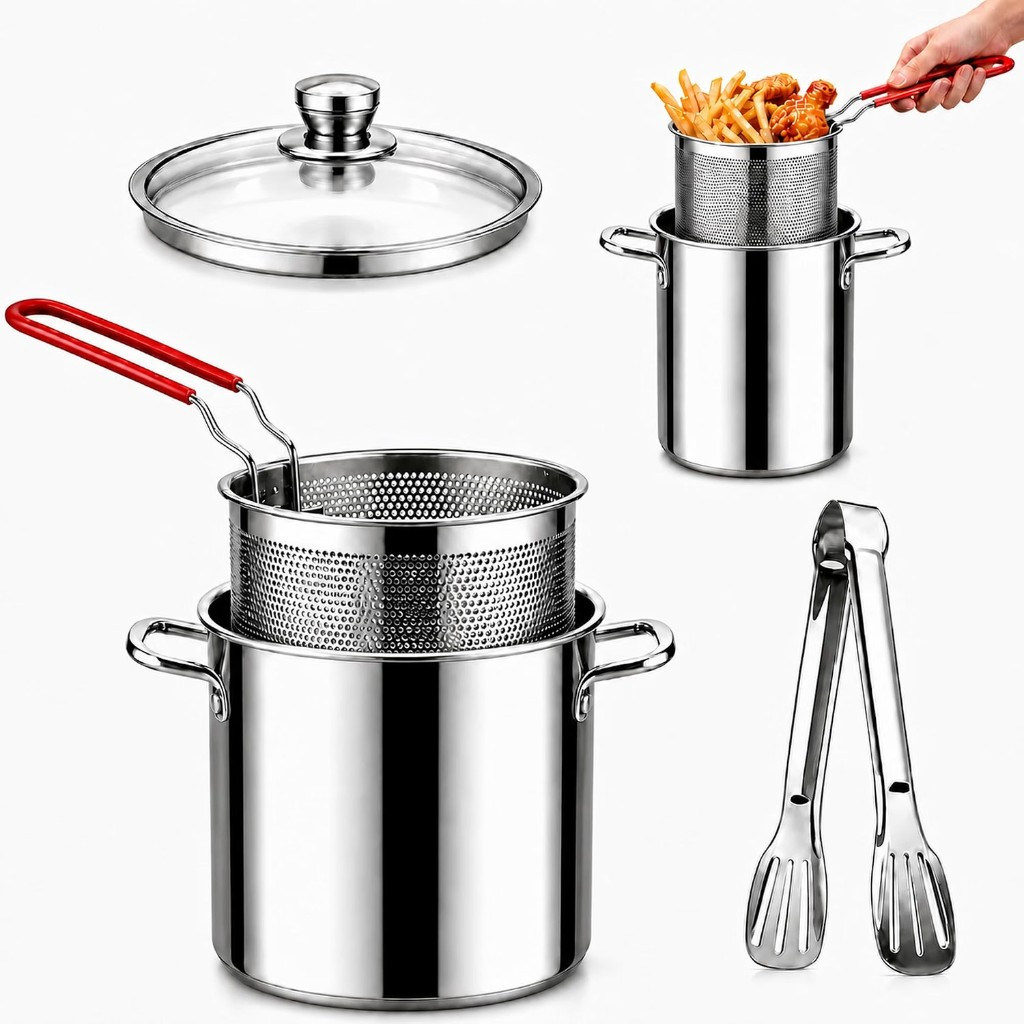
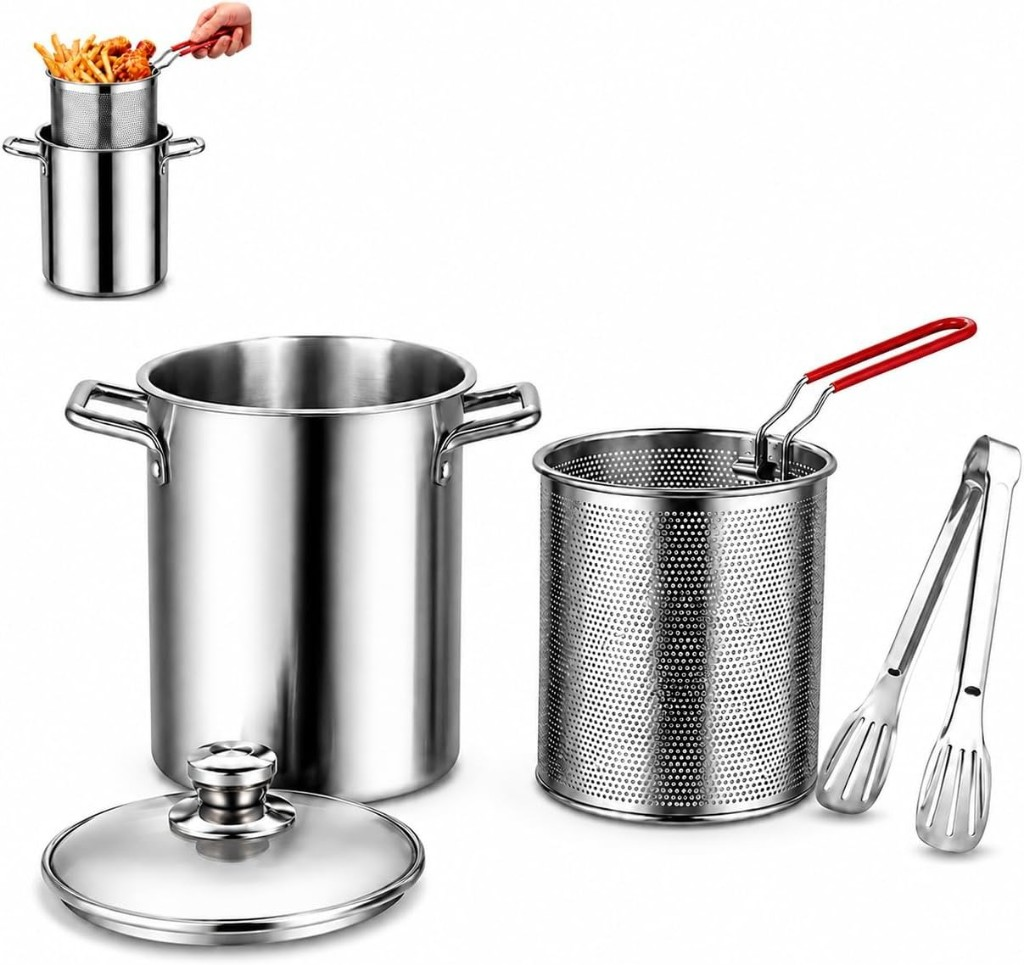
Add five-image hero gallery to steel fryer page.
Include product, steel 304, lift-and-drain, portions, and dimensions slides with thumbnails.

diff --git a/steel-fryer-panama.html b/steel-fryer-panama.html
@@ -5,15 +5,15 @@
   <meta name="viewport" content="width=device-width, initial-scale=1.0">
   <title>Olla Freidora Multifuncional Acero Inoxidable 304 | CompraConfio Panamá — Pago Contra Entrega</title>
   <meta name="description" content="Olla freidora multifuncional de acero inoxidable 304 con canasta escurridora. Fríe con menos aceite y menos desorden. Envío gratis y pago contra entrega en Panamá.">
-  <link rel="preload" as="image" href="/images/steel-fryer/hero-product.png?v=20260920a" fetchpriority="high">
+  <link rel="preload" as="image" href="/images/steel-fryer/hero-product.png?v=20260920b" fetchpriority="high">
   <link rel="preload" as="style" href="/css/product.css?v=20260811a">
-  <link rel="preload" as="style" href="/css/steel-fryer.css?v=20260920a">
+  <link rel="preload" as="style" href="/css/steel-fryer.css?v=20260920b">
   <link rel="preconnect" href="https://fonts.googleapis.com">
   <link rel="preconnect" href="https://fonts.gstatic.com" crossorigin>
   <link rel="preload" as="style" href="https://fonts.googleapis.com/css2?family=Cormorant+Garamond:wght@400;500;600&family=DM+Sans:wght@400;500;600;700&display=swap" onload="this.onload=null;this.rel='stylesheet'">
   <noscript><link rel="stylesheet" href="https://fonts.googleapis.com/css2?family=Cormorant+Garamond:wght@400;500;600&family=DM+Sans:wght@400;500;600;700&display=swap"></noscript>
   <link rel="stylesheet" href="/css/product.css?v=20260811a">
-  <link rel="stylesheet" href="/css/steel-fryer.css?v=20260920a">
+  <link rel="stylesheet" href="/css/steel-fryer.css?v=20260920b">
 </head>
 <body data-country="PA" data-lang="es" data-brand="compraconfio" data-product="steel-fryer" data-snap-pixel="off" data-thankyou="/thank-you-compraconfio-panama.html">
 
@@ -46,12 +46,28 @@
     <section class="gallery" id="heroSection">
       <div class="gallery-stage" id="galleryTrack">
         <div class="slide">
-          <img class="is-contain" src="/images/steel-fryer/hero-product.png?v=20260920a" alt="Olla freidora multifuncional de acero inoxidable 304 con canasta, tapa y pinzas" width="1500" height="1500" loading="eager" decoding="async" fetchpriority="high">
+          <img class="is-contain" src="/images/steel-fryer/hero-product.png?v=20260920b" alt="Olla freidora multifuncional de acero inoxidable 304 con canasta, tapa y pinzas" width="1254" height="1254" loading="eager" decoding="async" fetchpriority="high">
+        </div>
+        <div class="slide">
+          <img class="is-contain" src="/images/steel-fryer/hero-steel-304.png?v=20260920b" alt="Acero inoxidable 304 — resistente, apto para alimentos y fácil de limpiar" width="1024" height="1024" loading="lazy" decoding="async">
+        </div>
+        <div class="slide">
+          <img class="is-contain" src="/images/steel-fryer/hero-lift-drain.png?v=20260920b" alt="Levanta y escurre — el exceso de aceite vuelve a la olla" width="1024" height="1024" loading="lazy" decoding="async">
+        </div>
+        <div class="slide">
+          <img class="is-contain" src="/images/steel-fryer/hero-portions.png?v=20260920b" alt="Frituras en pequeñas porciones — capacidad 3 L, usa menos aceite" width="1024" height="1024" loading="lazy" decoding="async">
+        </div>
+        <div class="slide">
+          <img class="is-contain" src="/images/steel-fryer/hero-dimensions.png?v=20260920b" alt="Dimensiones del producto — olla, canasta, tapa y pinzas incluidas" width="1024" height="1024" loading="lazy" decoding="async">
         </div>
       </div>
       <div class="gallery-dots" id="galleryDots" aria-hidden="true"></div>
       <div class="gallery-thumbs">
-        <button type="button" class="thumb is-active" aria-label="Producto"><img src="/images/steel-fryer/hero-product.png?v=20260920a" alt="" width="160" height="160" decoding="async"></button>
+        <button type="button" class="thumb is-active" aria-label="Producto"><img src="/images/steel-fryer/hero-product.png?v=20260920b" alt="" width="160" height="160" decoding="async"></button>
+        <button type="button" class="thumb" aria-label="Acero 304"><img src="/images/steel-fryer/hero-steel-304.png?v=20260920b" alt="" width="160" height="160" loading="lazy" decoding="async"></button>
+        <button type="button" class="thumb" aria-label="Levanta y escurre"><img src="/images/steel-fryer/hero-lift-drain.png?v=20260920b" alt="" width="160" height="160" loading="lazy" decoding="async"></button>
+        <button type="button" class="thumb" aria-label="Pequeñas porciones"><img src="/images/steel-fryer/hero-portions.png?v=20260920b" alt="" width="160" height="160" loading="lazy" decoding="async"></button>
+        <button type="button" class="thumb" aria-label="Dimensiones"><img src="/images/steel-fryer/hero-dimensions.png?v=20260920b" alt="" width="160" height="160" loading="lazy" decoding="async"></button>
       </div>
     </section>
 
@@ -83,17 +99,17 @@
 
         <div class="guarantee-row">
           <div class="guarantee-item">
-            <img class="guarantee-icon" src="/images/rfid-card-holder/icon-guarantee.png?v=20260920a" alt="" width="48" height="48" decoding="async">
+            <img class="guarantee-icon" src="/images/rfid-card-holder/icon-guarantee.png?v=20260920b" alt="" width="48" height="48" decoding="async">
             <strong>30 días</strong>
             <span>Garantía</span>
           </div>
           <div class="guarantee-item">
-            <img class="guarantee-icon" src="/images/rfid-card-holder/icon-shipping.png?v=20260920a" alt="" width="48" height="48" decoding="async">
+            <img class="guarantee-icon" src="/images/rfid-card-holder/icon-shipping.png?v=20260920b" alt="" width="48" height="48" decoding="async">
             <strong>Envío</strong>
             <span>Gratis</span>
           </div>
           <div class="guarantee-item">
-            <img class="guarantee-icon" src="/images/rfid-card-holder/icon-cod.png?v=20260920a" alt="" width="48" height="48" decoding="async">
+            <img class="guarantee-icon" src="/images/rfid-card-holder/icon-cod.png?v=20260920b" alt="" width="48" height="48" decoding="async">
             <strong>Pago</strong>
             <span>Al recibir</span>
           </div>
@@ -124,7 +140,7 @@
   <section class="feature story-step">
     <div class="feature-inner">
       <div class="feature-media feature-media--square">
-        <img src="/images/steel-fryer/hero-product.png?v=20260920a" alt="Freír con sartén tradicional — aceite salpicando y desorden en la cocina" width="1500" height="1500" loading="lazy" decoding="async">
+        <img src="/images/steel-fryer/hero-product.png?v=20260920b" alt="Freír con sartén tradicional — aceite salpicando y desorden en la cocina" width="1500" height="1500" loading="lazy" decoding="async">
       </div>
       <div class="feature-copy">
         <h2>¿Te gusta la comida frita, pero no el desorden que deja?</h2>
@@ -138,7 +154,7 @@
   <section class="feature story-step is-reversed">
     <div class="feature-inner">
       <div class="feature-media feature-media--square">
-        <img src="/images/steel-fryer/hero-product.png?v=20260920a" alt="Olla freidora con canasta escurridora — levanta y el aceite regresa a la olla" width="1500" height="1500" loading="lazy" decoding="async">
+        <img src="/images/steel-fryer/hero-product.png?v=20260920b" alt="Olla freidora con canasta escurridora — levanta y el aceite regresa a la olla" width="1500" height="1500" loading="lazy" decoding="async">
       </div>
       <div class="feature-copy">
         <h2>Todo lo que necesitas para freír, en un solo diseño práctico</h2>
@@ -160,43 +176,43 @@
 
     <div class="mech-track" id="reasonTrack">
       <button type="button" class="mech-card is-active">
-        <img src="/images/steel-fryer/hero-product.png?v=20260920a" alt="Menos desorden al freír — diseño profundo" width="800" height="800" loading="lazy" decoding="async">
+        <img src="/images/steel-fryer/hero-product.png?v=20260920b" alt="Menos desorden al freír — diseño profundo" width="800" height="800" loading="lazy" decoding="async">
         <h3>🫧 Menos desorden al freír</h3>
         <p>Su diseño profundo ayuda a mantener el aceite más contenido mientras cocinas y reduce las salpicaduras alrededor de la estufa.</p>
       </button>
 
       <button type="button" class="mech-card">
-        <img src="/images/steel-fryer/hero-product.png?v=20260920a" alt="Canasta escurridora — levanta y el aceite vuelve a la olla" width="800" height="800" loading="lazy" decoding="async">
+        <img src="/images/steel-fryer/hero-product.png?v=20260920b" alt="Canasta escurridora — levanta y el aceite vuelve a la olla" width="800" height="800" loading="lazy" decoding="async">
         <h3>💧 Escurre el aceite fácilmente</h3>
         <p>Levanta la canasta y deja que el exceso de aceite vuelva directamente a la olla antes de servir.</p>
       </button>
 
       <button type="button" class="mech-card">
-        <img src="/images/steel-fryer/hero-product.png?v=20260920a" alt="Diseño compacto — aprovecha mejor el aceite" width="800" height="800" loading="lazy" decoding="async">
+        <img src="/images/steel-fryer/hero-product.png?v=20260920b" alt="Diseño compacto — aprovecha mejor el aceite" width="800" height="800" loading="lazy" decoding="async">
         <h3>🛢 Aprovecha mejor el aceite</h3>
         <p>Su diseño compacto y profundo permite freír pequeñas porciones sin necesitar llenar una sartén grande.</p>
       </button>
 
       <button type="button" class="mech-card">
-        <img src="/images/steel-fryer/hero-product.png?v=20260920a" alt="Papas, pollo, pescado, camarones y más" width="800" height="800" loading="lazy" decoding="async">
+        <img src="/images/steel-fryer/hero-product.png?v=20260920b" alt="Papas, pollo, pescado, camarones y más" width="800" height="800" loading="lazy" decoding="async">
         <h3>🍗 Cocina diferentes alimentos</h3>
         <p>Ideal para preparar papas fritas, pollo, pescado, camarones, nuggets, vegetales, tempura y mucho más.</p>
       </button>
 
       <button type="button" class="mech-card">
-        <img src="/images/steel-fryer/hero-product.png?v=20260920a" alt="Multifuncional — freír, hervir y calentar" width="800" height="800" loading="lazy" decoding="async">
+        <img src="/images/steel-fryer/hero-product.png?v=20260920b" alt="Multifuncional — freír, hervir y calentar" width="800" height="800" loading="lazy" decoding="async">
         <h3>🍳 Más que una freidora</h3>
         <p>También puedes utilizarla para diferentes preparaciones diarias como hervir, calentar y cocinar pequeñas cantidades.</p>
       </button>
 
       <button type="button" class="mech-card">
-        <img src="/images/steel-fryer/hero-product.png?v=20260920a" alt="Formato compacto — ocupa poco espacio" width="800" height="800" loading="lazy" decoding="async">
+        <img src="/images/steel-fryer/hero-product.png?v=20260920b" alt="Formato compacto — ocupa poco espacio" width="800" height="800" loading="lazy" decoding="async">
         <h3>📦 Ocupa poco espacio</h3>
         <p>Su formato compacto es práctico para cocinas pequeñas y fácil de guardar después de usar.</p>
       </button>
 
       <button type="button" class="mech-card">
-        <img src="/images/steel-fryer/hero-product.png?v=20260920a" alt="Canasta y pinzas incluidas" width="800" height="800" loading="lazy" decoding="async">
+        <img src="/images/steel-fryer/hero-product.png?v=20260920b" alt="Canasta y pinzas incluidas" width="800" height="800" loading="lazy" decoding="async">
         <h3>🥢 Fácil de manipular</h3>
         <p>La canasta y las pinzas incluidas facilitan sacar y manejar los alimentos después de freírlos.</p>
       </button>
@@ -208,7 +224,7 @@
   <div class="shell">
     <div class="feature-inner how-to-inner">
       <div class="feature-media feature-media--square">
-        <img src="/images/steel-fryer/hero-product.png?v=20260920a" alt="Olla freidora multifuncional con canasta escurridora" width="1500" height="1500" loading="lazy" decoding="async">
+        <img src="/images/steel-fryer/hero-product.png?v=20260920b" alt="Olla freidora multifuncional con canasta escurridora" width="1500" height="1500" loading="lazy" decoding="async">
       </div>
       <div class="feature-copy">
         <h2>Freír nunca fue tan sencillo</h2>
@@ -369,7 +385,7 @@
 
     <div class="order-body">
       <div class="order-product">
-        <img src="/images/steel-fryer/hero-product.png?v=20260920a" alt="" width="72" height="72" style="width:72px;height:72px;object-fit:contain;border-radius:8px;background:#fff" loading="lazy" decoding="async">
+        <img src="/images/steel-fryer/hero-product.png?v=20260920b" alt="" width="72" height="72" style="width:72px;height:72px;object-fit:contain;border-radius:8px;background:#fff" loading="lazy" decoding="async">
         <div>
           <strong>Olla Freidora Acero Inoxidable 304</strong>
           <span>Canasta incluida · Envío gratis</span>

diff --git a/css/steel-fryer.css b/css/steel-fryer.css
@@ -1286,3 +1286,8 @@ body[data-product="steel-fryer"] .slide img.is-contain {
   background: #fff;
 }
 
+body[data-product="steel-fryer"] .gallery-thumbs img {
+  object-fit: cover;
+  object-position: center;
+}
+
